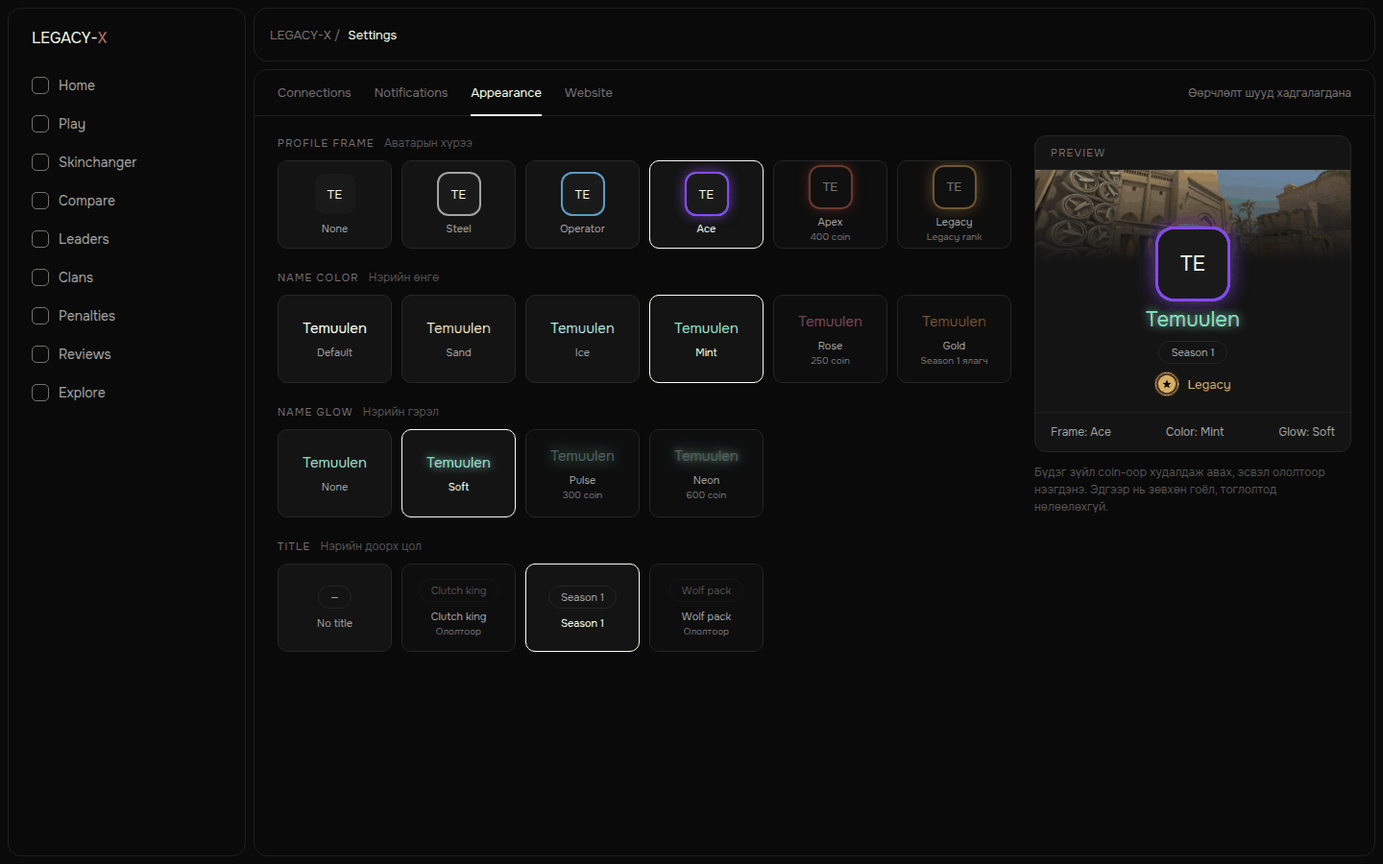
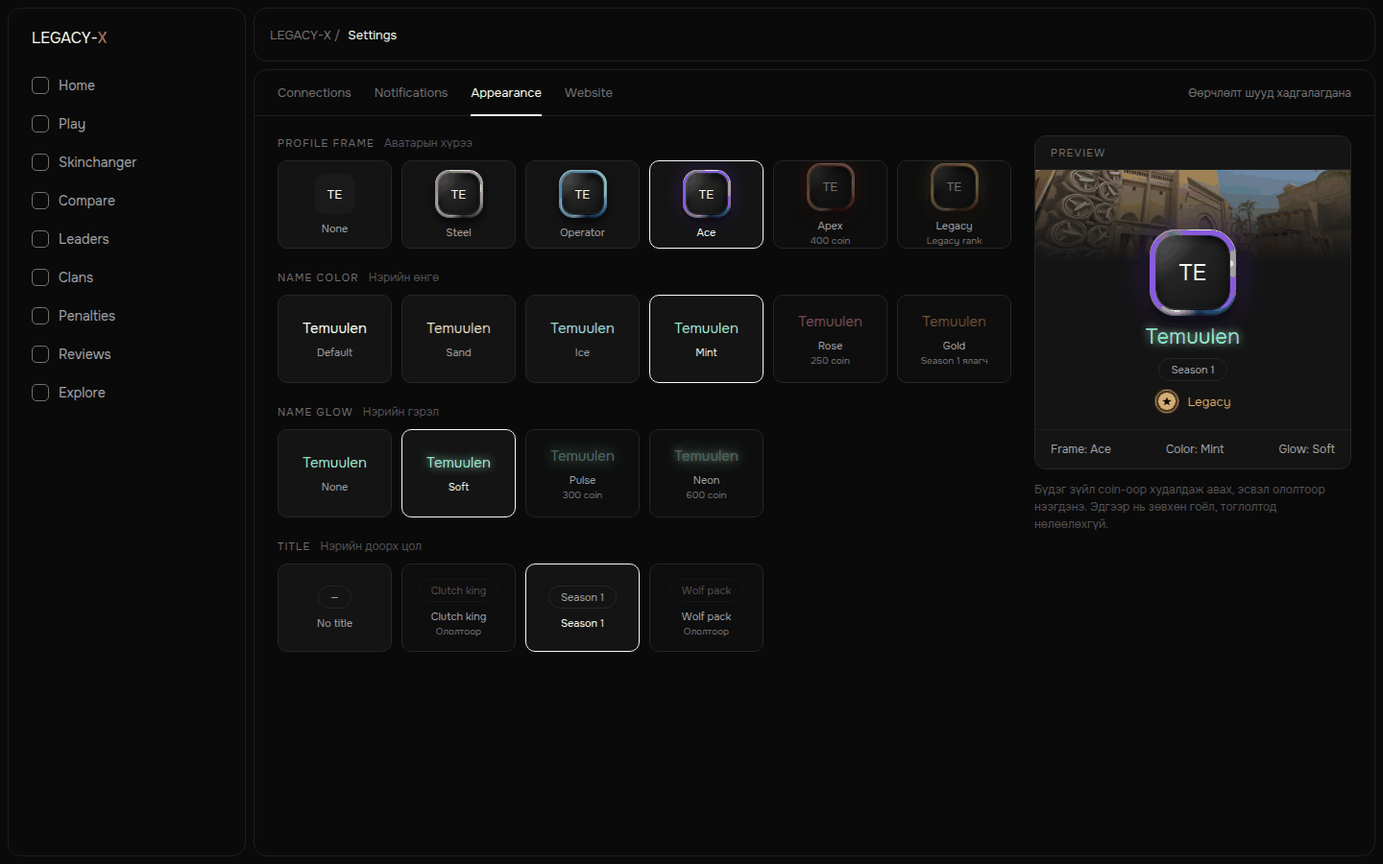
Add 3D profile frame mocks and use them in the Settings appearance mock
Claude-Session: https://claude.ai/code/session_01TcQZBqkxUw3iNcovWih4PN

diff --git a/docs/design/redesign/settings-appearance.html b/docs/design/redesign/settings-appearance.html
@@ -24,7 +24,7 @@ main{flex:1;min-width:0;padding:8px;display:flex;flex-direction:column;gap:8px}
 <div class="bar"><span class="t">Connections</span><span class="t">Notifications</span><span class="t on">Appearance</span><span class="t">Website</span><span style="margin-left:auto;font-size:12px">Өөрчлөлт шууд хадгалагдана</span></div>
 <div class="body" style="display:flex;gap:24px;padding:20px 24px">
  <div style="flex:1;min-width:0">
-  <section style="margin-bottom:22px"><div style="display:flex;align-items:baseline;gap:10px;margin-bottom:10px"><span style="font-size:11px;letter-spacing:1.2px;color:var(--dim);font-weight:600">PROFILE FRAME</span><span style="font-size:12px;color:var(--faint)">Аватарын хүрээ</span></div><div style="display:grid;grid-template-columns:repeat(6,1fr);gap:10px"><div style="position:relative;border:1px solid var(--line);border-radius:10px;background:var(--card);height:92px;overflow:hidden;display:flex;flex-direction:column;align-items:center;justify-content:center;gap:8px"><div style="width:42px;height:42px;border-radius:10px;background:var(--raised);display:flex;align-items:center;justify-content:center;font-size:13px;font-weight:700;">TE</div><span style="font-size:11px;color:var(--muted);font-weight:600;position:relative;z-index:1">None</span></div><div style="position:relative;border:1px solid var(--line);border-radius:10px;background:var(--card);height:92px;overflow:hidden;display:flex;flex-direction:column;align-items:center;justify-content:center;gap:8px"><div style="width:42px;height:42px;border-radius:10px;background:var(--raised);display:flex;align-items:center;justify-content:center;font-size:13px;font-weight:700;box-shadow:0 0 0 2px #a3a3a3">TE</div><span style="font-size:11px;color:var(--muted);font-weight:600;position:relative;z-index:1">Steel</span></div><div style="position:relative;border:1px solid var(--line);border-radius:10px;background:var(--card);height:92px;overflow:hidden;display:flex;flex-direction:column;align-items:center;justify-content:center;gap:8px"><div style="width:42px;height:42px;border-radius:10px;background:var(--raised);display:flex;align-items:center;justify-content:center;font-size:13px;font-weight:700;box-shadow:0 0 0 2px var(--operator)">TE</div><span style="font-size:11px;color:var(--muted);font-weight:600;position:relative;z-index:1">Operator</span></div><div style="position:relative;border:1px solid var(--text);border-radius:10px;background:var(--card);height:92px;overflow:hidden;display:flex;flex-direction:column;align-items:center;justify-content:center;gap:8px"><div style="width:42px;height:42px;border-radius:10px;background:var(--raised);display:flex;align-items:center;justify-content:center;font-size:13px;font-weight:700;box-shadow:0 0 0 2px var(--ace),0 0 14px var(--ace)">TE</div><span style="font-size:11px;color:var(--text);font-weight:600;position:relative;z-index:1">Ace</span></div><div style="position:relative;border:1px solid var(--line);border-radius:10px;background:var(--card);height:92px;overflow:hidden;display:flex;flex-direction:column;align-items:center;justify-content:center;gap:8px"><div style="width:42px;height:42px;border-radius:10px;background:var(--raised);display:flex;align-items:center;justify-content:center;font-size:13px;font-weight:700;box-shadow:0 0 0 2px var(--apex),0 0 14px var(--apex)">TE</div><span style="font-size:11px;color:var(--muted);font-weight:600;position:relative;z-index:1">Apex</span><span style="font-size:10px;color:var(--dim);margin-top:-6px;position:relative;z-index:1">400 coin</span><div style="position:absolute;inset:0;background:rgba(10,10,10,.55)"></div></div><div style="position:relative;border:1px solid var(--line);border-radius:10px;background:var(--card);height:92px;overflow:hidden;display:flex;flex-direction:column;align-items:center;justify-content:center;gap:8px"><div style="width:42px;height:42px;border-radius:10px;background:var(--raised);display:flex;align-items:center;justify-content:center;font-size:13px;font-weight:700;box-shadow:0 0 0 2px var(--legacy),0 0 18px var(--legacy)">TE</div><span style="font-size:11px;color:var(--muted);font-weight:600;position:relative;z-index:1">Legacy</span><span style="font-size:10px;color:var(--dim);margin-top:-6px;position:relative;z-index:1">Legacy rank</span><div style="position:absolute;inset:0;background:rgba(10,10,10,.55)"></div></div></div></section>
+  <section style="margin-bottom:22px"><div style="display:flex;align-items:baseline;gap:10px;margin-bottom:10px"><span style="font-size:11px;letter-spacing:1.2px;color:var(--dim);font-weight:600">PROFILE FRAME</span><span style="font-size:12px;color:var(--faint)">Аватарын хүрээ</span></div><div style="display:grid;grid-template-columns:repeat(6,1fr);gap:10px"><div style="position:relative;border:1px solid var(--line);border-radius:10px;background:var(--card);height:92px;overflow:hidden;display:flex;flex-direction:column;align-items:center;justify-content:center;gap:8px"><div style="width:42px;height:42px;border-radius:10px;background:var(--raised);display:flex;align-items:center;justify-content:center;font-size:13px;font-weight:700;">TE</div><span style="font-size:11px;color:var(--muted);font-weight:600;position:relative;z-index:1">None</span></div><div style="position:relative;border:1px solid var(--line);border-radius:10px;background:var(--card);height:92px;overflow:hidden;display:flex;flex-direction:column;align-items:center;justify-content:center;gap:8px"><div style="position:relative;width:50px;height:50px;border-radius:15px;padding:4px;background:conic-gradient(from 200deg,#f1f1f1,#9a9a9a 18%,#4a4a4a 36%,#9a9a9a 52%,#f1f1f1 66%,#9a9a9a 82%,#4a4a4a 92%,#f1f1f1);box-shadow:0 5px 9px rgba(0,0,0,.65),inset 0 1px 1px rgba(255,255,255,.6),inset 0 -2px 3px rgba(0,0,0,.55)"><div style="position:absolute;inset:0;border-radius:15px;background:linear-gradient(135deg,rgba(255,255,255,.38),rgba(255,255,255,0) 38%,rgba(0,0,0,.28));pointer-events:none"></div><div style="width:42px;height:42px;border-radius:11px;background:radial-gradient(circle at 30% 25%,#2a2a2a,#1a1a1a);display:flex;align-items:center;justify-content:center;font-weight:700;font-size:13px;box-shadow:inset 0 3px 8px rgba(0,0,0,.85),inset 0 -1px 2px rgba(255,255,255,.08),0 0 0 1px rgba(0,0,0,.7)">TE</div></div><span style="font-size:11px;color:var(--muted);font-weight:600;position:relative;z-index:1">Steel</span></div><div style="position:relative;border:1px solid var(--line);border-radius:10px;background:var(--card);height:92px;overflow:hidden;display:flex;flex-direction:column;align-items:center;justify-content:center;gap:8px"><div style="position:relative;width:50px;height:50px;border-radius:15px;padding:4px;background:conic-gradient(from 200deg,#bfe6ff,#4f93d6 18%,#1d3f6e 36%,#4f93d6 52%,#bfe6ff 66%,#4f93d6 82%,#1d3f6e 92%,#bfe6ff);box-shadow:0 5px 9px rgba(0,0,0,.65),inset 0 1px 1px rgba(255,255,255,.6),inset 0 -2px 3px rgba(0,0,0,.55)"><div style="position:absolute;inset:0;border-radius:15px;background:linear-gradient(135deg,rgba(255,255,255,.38),rgba(255,255,255,0) 38%,rgba(0,0,0,.28));pointer-events:none"></div><div style="width:42px;height:42px;border-radius:11px;background:radial-gradient(circle at 30% 25%,#2a2a2a,#1a1a1a);display:flex;align-items:center;justify-content:center;font-weight:700;font-size:13px;box-shadow:inset 0 3px 8px rgba(0,0,0,.85),inset 0 -1px 2px rgba(255,255,255,.08),0 0 0 1px rgba(0,0,0,.7)">TE</div></div><span style="font-size:11px;color:var(--muted);font-weight:600;position:relative;z-index:1">Operator</span></div><div style="position:relative;border:1px solid var(--text);border-radius:10px;background:var(--card);height:92px;overflow:hidden;display:flex;flex-direction:column;align-items:center;justify-content:center;gap:8px"><div style="position:relative;width:50px;height:50px;border-radius:15px;padding:4px;background:conic-gradient(from 200deg,#e3d0ff,#8847ff 18%,#37167a 36%,#8847ff 52%,#e3d0ff 66%,#8847ff 82%,#37167a 92%,#e3d0ff);box-shadow:0 5px 9px rgba(0,0,0,.65),inset 0 1px 1px rgba(255,255,255,.6),inset 0 -2px 3px rgba(0,0,0,.55),0 0 19px #8847ff55"><div style="position:absolute;inset:0;border-radius:15px;background:linear-gradient(135deg,rgba(255,255,255,.38),rgba(255,255,255,0) 38%,rgba(0,0,0,.28));pointer-events:none"></div><div style="width:42px;height:42px;border-radius:11px;background:radial-gradient(circle at 30% 25%,#2a2a2a,#1a1a1a);display:flex;align-items:center;justify-content:center;font-weight:700;font-size:13px;box-shadow:inset 0 3px 8px rgba(0,0,0,.85),inset 0 -1px 2px rgba(255,255,255,.08),0 0 0 1px rgba(0,0,0,.7)">TE</div></div><span style="font-size:11px;color:var(--text);font-weight:600;position:relative;z-index:1">Ace</span></div><div style="position:relative;border:1px solid var(--line);border-radius:10px;background:var(--card);height:92px;overflow:hidden;display:flex;flex-direction:column;align-items:center;justify-content:center;gap:8px"><div style="position:relative;width:50px;height:50px;border-radius:15px;padding:4px;background:conic-gradient(from 200deg,#ffc4c4,#e14b4b 18%,#6e1414 36%,#e14b4b 52%,#ffc4c4 66%,#e14b4b 82%,#6e1414 92%,#ffc4c4);box-shadow:0 5px 9px rgba(0,0,0,.65),inset 0 1px 1px rgba(255,255,255,.6),inset 0 -2px 3px rgba(0,0,0,.55),0 0 19px #eb4b4b66"><div style="position:absolute;inset:0;border-radius:15px;background:linear-gradient(135deg,rgba(255,255,255,.38),rgba(255,255,255,0) 38%,rgba(0,0,0,.28));pointer-events:none"></div><div style="width:42px;height:42px;border-radius:11px;background:radial-gradient(circle at 30% 25%,#2a2a2a,#1a1a1a);display:flex;align-items:center;justify-content:center;font-weight:700;font-size:13px;box-shadow:inset 0 3px 8px rgba(0,0,0,.85),inset 0 -1px 2px rgba(255,255,255,.08),0 0 0 1px rgba(0,0,0,.7)">TE</div></div><span style="font-size:11px;color:var(--muted);font-weight:600;position:relative;z-index:1">Apex</span><span style="font-size:10px;color:var(--dim);margin-top:-6px;position:relative;z-index:1">400 coin</span><div style="position:absolute;inset:0;background:rgba(10,10,10,.55)"></div></div><div style="position:relative;border:1px solid var(--line);border-radius:10px;background:var(--card);height:92px;overflow:hidden;display:flex;flex-direction:column;align-items:center;justify-content:center;gap:8px"><div style="position:relative;width:50px;height:50px;border-radius:15px;padding:4px;background:conic-gradient(from 200deg,#fff0b8,#e4ae39 18%,#7a5410 36%,#e4ae39 52%,#fff0b8 66%,#e4ae39 82%,#7a5410 92%,#fff0b8);box-shadow:0 5px 9px rgba(0,0,0,.65),inset 0 1px 1px rgba(255,255,255,.6),inset 0 -2px 3px rgba(0,0,0,.55),0 0 19px #e4ae3977"><div style="position:absolute;inset:0;border-radius:15px;background:linear-gradient(135deg,rgba(255,255,255,.38),rgba(255,255,255,0) 38%,rgba(0,0,0,.28));pointer-events:none"></div><div style="width:42px;height:42px;border-radius:11px;background:radial-gradient(circle at 30% 25%,#2a2a2a,#1a1a1a);display:flex;align-items:center;justify-content:center;font-weight:700;font-size:13px;box-shadow:inset 0 3px 8px rgba(0,0,0,.85),inset 0 -1px 2px rgba(255,255,255,.08),0 0 0 1px rgba(0,0,0,.7)">TE</div></div><span style="font-size:11px;color:var(--muted);font-weight:600;position:relative;z-index:1">Legacy</span><span style="font-size:10px;color:var(--dim);margin-top:-6px;position:relative;z-index:1">Legacy rank</span><div style="position:absolute;inset:0;background:rgba(10,10,10,.55)"></div></div></div></section>
   <section style="margin-bottom:22px"><div style="display:flex;align-items:baseline;gap:10px;margin-bottom:10px"><span style="font-size:11px;letter-spacing:1.2px;color:var(--dim);font-weight:600">NAME COLOR</span><span style="font-size:12px;color:var(--faint)">Нэрийн өнгө</span></div><div style="display:grid;grid-template-columns:repeat(6,1fr);gap:10px"><div style="position:relative;border:1px solid var(--line);border-radius:10px;background:var(--card);height:92px;overflow:hidden;display:flex;flex-direction:column;align-items:center;justify-content:center;gap:8px"><span style="font-size:15px;font-weight:700;color:#fafafa">Temuulen</span><span style="font-size:11px;color:var(--muted);font-weight:600;position:relative;z-index:1">Default</span></div><div style="position:relative;border:1px solid var(--line);border-radius:10px;background:var(--card);height:92px;overflow:hidden;display:flex;flex-direction:column;align-items:center;justify-content:center;gap:8px"><span style="font-size:15px;font-weight:700;color:#e8d9b0">Temuulen</span><span style="font-size:11px;color:var(--muted);font-weight:600;position:relative;z-index:1">Sand</span></div><div style="position:relative;border:1px solid var(--line);border-radius:10px;background:var(--card);height:92px;overflow:hidden;display:flex;flex-direction:column;align-items:center;justify-content:center;gap:8px"><span style="font-size:15px;font-weight:700;color:#9fd4ff">Temuulen</span><span style="font-size:11px;color:var(--muted);font-weight:600;position:relative;z-index:1">Ice</span></div><div style="position:relative;border:1px solid var(--text);border-radius:10px;background:var(--card);height:92px;overflow:hidden;display:flex;flex-direction:column;align-items:center;justify-content:center;gap:8px"><span style="font-size:15px;font-weight:700;color:#8ff0c0">Temuulen</span><span style="font-size:11px;color:var(--text);font-weight:600;position:relative;z-index:1">Mint</span></div><div style="position:relative;border:1px solid var(--line);border-radius:10px;background:var(--card);height:92px;overflow:hidden;display:flex;flex-direction:column;align-items:center;justify-content:center;gap:8px"><span style="font-size:15px;font-weight:700;color:#ff8aa8">Temuulen</span><span style="font-size:11px;color:var(--muted);font-weight:600;position:relative;z-index:1">Rose</span><span style="font-size:10px;color:var(--dim);margin-top:-6px;position:relative;z-index:1">250 coin</span><div style="position:absolute;inset:0;background:rgba(10,10,10,.55)"></div></div><div style="position:relative;border:1px solid var(--line);border-radius:10px;background:var(--card);height:92px;overflow:hidden;display:flex;flex-direction:column;align-items:center;justify-content:center;gap:8px"><span style="font-size:15px;font-weight:700;color:#e4ae39">Temuulen</span><span style="font-size:11px;color:var(--muted);font-weight:600;position:relative;z-index:1">Gold</span><span style="font-size:10px;color:var(--dim);margin-top:-6px;position:relative;z-index:1">Season 1 ялагч</span><div style="position:absolute;inset:0;background:rgba(10,10,10,.55)"></div></div></div></section>
   <section style="margin-bottom:22px"><div style="display:flex;align-items:baseline;gap:10px;margin-bottom:10px"><span style="font-size:11px;letter-spacing:1.2px;color:var(--dim);font-weight:600">NAME GLOW</span><span style="font-size:12px;color:var(--faint)">Нэрийн гэрэл</span></div><div style="display:grid;grid-template-columns:repeat(6,1fr);gap:10px"><div style="position:relative;border:1px solid var(--line);border-radius:10px;background:var(--card);height:92px;overflow:hidden;display:flex;flex-direction:column;align-items:center;justify-content:center;gap:8px"><span style="font-size:15px;font-weight:700;color:#8ff0c0;">Temuulen</span><span style="font-size:11px;color:var(--muted);font-weight:600;position:relative;z-index:1">None</span></div><div style="position:relative;border:1px solid var(--text);border-radius:10px;background:var(--card);height:92px;overflow:hidden;display:flex;flex-direction:column;align-items:center;justify-content:center;gap:8px"><span style="font-size:15px;font-weight:700;color:#8ff0c0;text-shadow:0 0 10px currentColor">Temuulen</span><span style="font-size:11px;color:var(--text);font-weight:600;position:relative;z-index:1">Soft</span></div><div style="position:relative;border:1px solid var(--line);border-radius:10px;background:var(--card);height:92px;overflow:hidden;display:flex;flex-direction:column;align-items:center;justify-content:center;gap:8px"><span style="font-size:15px;font-weight:700;color:#8ff0c0;text-shadow:0 0 14px currentColor,0 0 28px currentColor">Temuulen</span><span style="font-size:11px;color:var(--muted);font-weight:600;position:relative;z-index:1">Pulse</span><span style="font-size:10px;color:var(--dim);margin-top:-6px;position:relative;z-index:1">300 coin</span><div style="position:absolute;inset:0;background:rgba(10,10,10,.55)"></div></div><div style="position:relative;border:1px solid var(--line);border-radius:10px;background:var(--card);height:92px;overflow:hidden;display:flex;flex-direction:column;align-items:center;justify-content:center;gap:8px"><span style="font-size:15px;font-weight:700;color:#8ff0c0;text-shadow:0 0 6px #fff,0 0 18px currentColor,0 0 34px currentColor">Temuulen</span><span style="font-size:11px;color:var(--muted);font-weight:600;position:relative;z-index:1">Neon</span><span style="font-size:10px;color:var(--dim);margin-top:-6px;position:relative;z-index:1">600 coin</span><div style="position:absolute;inset:0;background:rgba(10,10,10,.55)"></div></div></div></section>
   <section style="margin-bottom:22px"><div style="display:flex;align-items:baseline;gap:10px;margin-bottom:10px"><span style="font-size:11px;letter-spacing:1.2px;color:var(--dim);font-weight:600">TITLE</span><span style="font-size:12px;color:var(--faint)">Нэрийн доорх цол</span></div><div style="display:grid;grid-template-columns:repeat(6,1fr);gap:10px"><div style="position:relative;border:1px solid var(--line);border-radius:10px;background:var(--card);height:92px;overflow:hidden;display:flex;flex-direction:column;align-items:center;justify-content:center;gap:8px"><span class="chip" style="height:24px;font-size:11px">—</span><span style="font-size:11px;color:var(--muted);font-weight:600;position:relative;z-index:1">No title</span></div><div style="position:relative;border:1px solid var(--line);border-radius:10px;background:var(--card);height:92px;overflow:hidden;display:flex;flex-direction:column;align-items:center;justify-content:center;gap:8px"><span class="chip" style="height:24px;font-size:11px">Clutch king</span><span style="font-size:11px;color:var(--muted);font-weight:600;position:relative;z-index:1">Clutch king</span><span style="font-size:10px;color:var(--dim);margin-top:-6px;position:relative;z-index:1">Ололтоор</span><div style="position:absolute;inset:0;background:rgba(10,10,10,.55)"></div></div><div style="position:relative;border:1px solid var(--text);border-radius:10px;background:var(--card);height:92px;overflow:hidden;display:flex;flex-direction:column;align-items:center;justify-content:center;gap:8px"><span class="chip" style="height:24px;font-size:11px">Season 1</span><span style="font-size:11px;color:var(--text);font-weight:600;position:relative;z-index:1">Season 1</span></div><div style="position:relative;border:1px solid var(--line);border-radius:10px;background:var(--card);height:92px;overflow:hidden;display:flex;flex-direction:column;align-items:center;justify-content:center;gap:8px"><span class="chip" style="height:24px;font-size:11px">Wolf pack</span><span style="font-size:11px;color:var(--muted);font-weight:600;position:relative;z-index:1">Wolf pack</span><span style="font-size:10px;color:var(--dim);margin-top:-6px;position:relative;z-index:1">Ололтоор</span><div style="position:absolute;inset:0;background:rgba(10,10,10,.55)"></div></div></div></section>
@@ -34,7 +34,7 @@ main{flex:1;min-width:0;padding:8px;display:flex;flex-direction:column;gap:8px}
    <div style="padding:10px 16px;font-size:11px;letter-spacing:1.2px;color:var(--dim);font-weight:600;border-bottom:1px solid var(--line-soft)">PREVIEW</div>
    <div style="position:relative;height:96px;background:url(../../../src/assets/maps/de_mirage.webp) center/cover"><div style="position:absolute;inset:0;background:linear-gradient(0deg,#141414,rgba(20,20,20,.35))"></div></div>
    <div style="margin-top:-34px;padding:0 16px 16px;position:relative;display:flex;flex-direction:column;align-items:center;text-align:center;gap:8px">
-    <div style="width:72px;height:72px;border-radius:16px;background:var(--raised);display:flex;align-items:center;justify-content:center;font-size:22px;font-weight:700;box-shadow:0 0 0 3px var(--ace),0 0 22px var(--ace)">TE</div>
+    <div style="position:relative;width:90px;height:90px;border-radius:27px;padding:7px;background:conic-gradient(from 200deg,#e3d0ff,#8847ff 18%,#37167a 36%,#8847ff 52%,#e3d0ff 66%,#8847ff 82%,#37167a 92%,#e3d0ff);box-shadow:0 9px 17px rgba(0,0,0,.65),inset 0 1px 1px rgba(255,255,255,.6),inset 0 -2px 3px rgba(0,0,0,.55),0 0 34px #8847ff55"><div style="position:absolute;inset:0;border-radius:27px;background:linear-gradient(135deg,rgba(255,255,255,.38),rgba(255,255,255,0) 38%,rgba(0,0,0,.28));pointer-events:none"></div><div style="width:76px;height:76px;border-radius:20px;background:radial-gradient(circle at 30% 25%,#2a2a2a,#1a1a1a);display:flex;align-items:center;justify-content:center;font-weight:700;font-size:24px;box-shadow:inset 0 3px 8px rgba(0,0,0,.85),inset 0 -1px 2px rgba(255,255,255,.08),0 0 0 1px rgba(0,0,0,.7)">TE</div></div>
     <div style="font-size:22px;font-weight:700;color:#8ff0c0;text-shadow:0 0 10px currentColor">Temuulen</div>
     <span class="chip" style="height:24px;font-size:11px">Season 1</span>
     <div style="display:flex;align-items:center;gap:8px;color:var(--legacy);font-weight:600;font-size:13px"><img src="../ranks/rank-18.svg" width="26" height="26">Legacy</div>

diff --git a/docs/design/redesign/frames-3d.html b/docs/design/redesign/frames-3d.html
@@ -1,0 +1,28 @@
+<!doctype html><html><head><meta charset="utf-8"><link href="https://fonts.googleapis.com/css2?family=Onest:wght@400;600;700&display=swap" rel="stylesheet"/>
+<style>body{margin:0;background:#0a0a0a;color:#fafafa;font-family:'Onest',system-ui,sans-serif}</style></head><body>
+<div style="width:1440px;height:560px;padding:48px 72px;box-sizing:border-box">
+<div style="font-size:11px;letter-spacing:1.2px;color:#737373;font-weight:600">PROFILE FRAMES · 3D</div>
+<div style="display:flex;justify-content:space-between;margin-top:44px"><div style="display:flex;flex-direction:column;align-items:center;gap:16px"><div><div style="position:relative;width:138px;height:138px;border-radius:40px;padding:14px;background:conic-gradient(from 200deg,#f6f6f6,#a0a0a0 16%,#444 34%,#a0a0a0 50%,#f6f6f6 64%,#a0a0a0 80%,#444 92%,#f6f6f6);box-shadow:0 15px 29px rgba(0,0,0,.7),0 0 55px #ffffff22,inset 0 2px 2px rgba(255,255,255,.65),inset 0 -3px 4px rgba(0,0,0,.6)">
+<div style="position:absolute;inset:0;border-radius:40px;background:linear-gradient(135deg,rgba(255,255,255,.42),rgba(255,255,255,0) 40%,rgba(0,0,0,.3))"></div>
+<div style="position:absolute;inset:8px;border-radius:32px;box-shadow:inset 0 2px 3px rgba(0,0,0,.55),0 1px 0 rgba(255,255,255,.35)"></div>
+<div style="position:relative;width:110px;height:110px;border-radius:26px;background:radial-gradient(circle at 30% 25%,#333,#141414);display:flex;align-items:center;justify-content:center;font-weight:700;font-size:35px;box-shadow:inset 0 4px 10px rgba(0,0,0,.9),inset 0 -1px 2px rgba(255,255,255,.1),0 0 0 1px rgba(0,0,0,.8)">TE</div><span style="position:absolute;left:3px;top:3px;width:10px;height:10px;border-radius:50%;background:radial-gradient(circle at 35% 30%,#f6f6f6,#444);box-shadow:0 1px 2px rgba(0,0,0,.7),inset 0 -1px 1px rgba(0,0,0,.5)"></span><span style="position:absolute;right:3px;top:3px;width:10px;height:10px;border-radius:50%;background:radial-gradient(circle at 35% 30%,#f6f6f6,#444);box-shadow:0 1px 2px rgba(0,0,0,.7),inset 0 -1px 1px rgba(0,0,0,.5)"></span><span style="position:absolute;left:3px;bottom:3px;width:10px;height:10px;border-radius:50%;background:radial-gradient(circle at 35% 30%,#f6f6f6,#444);box-shadow:0 1px 2px rgba(0,0,0,.7),inset 0 -1px 1px rgba(0,0,0,.5)"></span><span style="position:absolute;right:3px;bottom:3px;width:10px;height:10px;border-radius:50%;background:radial-gradient(circle at 35% 30%,#f6f6f6,#444);box-shadow:0 1px 2px rgba(0,0,0,.7),inset 0 -1px 1px rgba(0,0,0,.5)"></span></div></div><div style="font-weight:600">Steel</div></div><div style="display:flex;flex-direction:column;align-items:center;gap:16px"><div><div style="position:relative;width:138px;height:138px;border-radius:40px;padding:14px;background:conic-gradient(from 200deg,#c9ecff,#4f93d6 16%,#17355f 34%,#4f93d6 50%,#c9ecff 64%,#4f93d6 80%,#17355f 92%,#c9ecff);box-shadow:0 15px 29px rgba(0,0,0,.7),0 0 55px #5e98d955,inset 0 2px 2px rgba(255,255,255,.65),inset 0 -3px 4px rgba(0,0,0,.6)">
+<div style="position:absolute;inset:0;border-radius:40px;background:linear-gradient(135deg,rgba(255,255,255,.42),rgba(255,255,255,0) 40%,rgba(0,0,0,.3))"></div>
+<div style="position:absolute;inset:8px;border-radius:32px;box-shadow:inset 0 2px 3px rgba(0,0,0,.55),0 1px 0 rgba(255,255,255,.35)"></div>
+<div style="position:relative;width:110px;height:110px;border-radius:26px;background:radial-gradient(circle at 30% 25%,#333,#141414);display:flex;align-items:center;justify-content:center;font-weight:700;font-size:35px;box-shadow:inset 0 4px 10px rgba(0,0,0,.9),inset 0 -1px 2px rgba(255,255,255,.1),0 0 0 1px rgba(0,0,0,.8)">TE</div><span style="position:absolute;left:3px;top:3px;width:10px;height:10px;border-radius:50%;background:radial-gradient(circle at 35% 30%,#c9ecff,#17355f);box-shadow:0 1px 2px rgba(0,0,0,.7),inset 0 -1px 1px rgba(0,0,0,.5)"></span><span style="position:absolute;right:3px;top:3px;width:10px;height:10px;border-radius:50%;background:radial-gradient(circle at 35% 30%,#c9ecff,#17355f);box-shadow:0 1px 2px rgba(0,0,0,.7),inset 0 -1px 1px rgba(0,0,0,.5)"></span><span style="position:absolute;left:3px;bottom:3px;width:10px;height:10px;border-radius:50%;background:radial-gradient(circle at 35% 30%,#c9ecff,#17355f);box-shadow:0 1px 2px rgba(0,0,0,.7),inset 0 -1px 1px rgba(0,0,0,.5)"></span><span style="position:absolute;right:3px;bottom:3px;width:10px;height:10px;border-radius:50%;background:radial-gradient(circle at 35% 30%,#c9ecff,#17355f);box-shadow:0 1px 2px rgba(0,0,0,.7),inset 0 -1px 1px rgba(0,0,0,.5)"></span></div></div><div style="font-weight:600">Operator</div></div><div style="display:flex;flex-direction:column;align-items:center;gap:16px"><div><div style="position:relative;width:138px;height:138px;border-radius:40px;padding:14px;background:conic-gradient(from 200deg,#eadbff,#8847ff 16%,#2f1068 34%,#8847ff 50%,#eadbff 64%,#8847ff 80%,#2f1068 92%,#eadbff);box-shadow:0 15px 29px rgba(0,0,0,.7),0 0 55px #8847ff66,inset 0 2px 2px rgba(255,255,255,.65),inset 0 -3px 4px rgba(0,0,0,.6)">
+<div style="position:absolute;inset:0;border-radius:40px;background:linear-gradient(135deg,rgba(255,255,255,.42),rgba(255,255,255,0) 40%,rgba(0,0,0,.3))"></div>
+<div style="position:absolute;inset:8px;border-radius:32px;box-shadow:inset 0 2px 3px rgba(0,0,0,.55),0 1px 0 rgba(255,255,255,.35)"></div>
+<div style="position:relative;width:110px;height:110px;border-radius:26px;background:radial-gradient(circle at 30% 25%,#333,#141414);display:flex;align-items:center;justify-content:center;font-weight:700;font-size:35px;box-shadow:inset 0 4px 10px rgba(0,0,0,.9),inset 0 -1px 2px rgba(255,255,255,.1),0 0 0 1px rgba(0,0,0,.8)">TE</div><span style="position:absolute;left:3px;top:3px;width:10px;height:10px;border-radius:50%;background:radial-gradient(circle at 35% 30%,#eadbff,#2f1068);box-shadow:0 1px 2px rgba(0,0,0,.7),inset 0 -1px 1px rgba(0,0,0,.5)"></span><span style="position:absolute;right:3px;top:3px;width:10px;height:10px;border-radius:50%;background:radial-gradient(circle at 35% 30%,#eadbff,#2f1068);box-shadow:0 1px 2px rgba(0,0,0,.7),inset 0 -1px 1px rgba(0,0,0,.5)"></span><span style="position:absolute;left:3px;bottom:3px;width:10px;height:10px;border-radius:50%;background:radial-gradient(circle at 35% 30%,#eadbff,#2f1068);box-shadow:0 1px 2px rgba(0,0,0,.7),inset 0 -1px 1px rgba(0,0,0,.5)"></span><span style="position:absolute;right:3px;bottom:3px;width:10px;height:10px;border-radius:50%;background:radial-gradient(circle at 35% 30%,#eadbff,#2f1068);box-shadow:0 1px 2px rgba(0,0,0,.7),inset 0 -1px 1px rgba(0,0,0,.5)"></span></div></div><div style="font-weight:600">Ace</div></div><div style="display:flex;flex-direction:column;align-items:center;gap:16px"><div><div style="position:relative;width:138px;height:138px;border-radius:40px;padding:14px;background:conic-gradient(from 200deg,#ffcfcf,#e14b4b 16%,#5e0f0f 34%,#e14b4b 50%,#ffcfcf 64%,#e14b4b 80%,#5e0f0f 92%,#ffcfcf);box-shadow:0 15px 29px rgba(0,0,0,.7),0 0 55px #eb4b4b77,inset 0 2px 2px rgba(255,255,255,.65),inset 0 -3px 4px rgba(0,0,0,.6)">
+<div style="position:absolute;inset:0;border-radius:40px;background:linear-gradient(135deg,rgba(255,255,255,.42),rgba(255,255,255,0) 40%,rgba(0,0,0,.3))"></div>
+<div style="position:absolute;inset:8px;border-radius:32px;box-shadow:inset 0 2px 3px rgba(0,0,0,.55),0 1px 0 rgba(255,255,255,.35)"></div>
+<div style="position:relative;width:110px;height:110px;border-radius:26px;background:radial-gradient(circle at 30% 25%,#333,#141414);display:flex;align-items:center;justify-content:center;font-weight:700;font-size:35px;box-shadow:inset 0 4px 10px rgba(0,0,0,.9),inset 0 -1px 2px rgba(255,255,255,.1),0 0 0 1px rgba(0,0,0,.8)">TE</div><span style="position:absolute;left:3px;top:3px;width:10px;height:10px;border-radius:50%;background:radial-gradient(circle at 35% 30%,#ffcfcf,#5e0f0f);box-shadow:0 1px 2px rgba(0,0,0,.7),inset 0 -1px 1px rgba(0,0,0,.5)"></span><span style="position:absolute;right:3px;top:3px;width:10px;height:10px;border-radius:50%;background:radial-gradient(circle at 35% 30%,#ffcfcf,#5e0f0f);box-shadow:0 1px 2px rgba(0,0,0,.7),inset 0 -1px 1px rgba(0,0,0,.5)"></span><span style="position:absolute;left:3px;bottom:3px;width:10px;height:10px;border-radius:50%;background:radial-gradient(circle at 35% 30%,#ffcfcf,#5e0f0f);box-shadow:0 1px 2px rgba(0,0,0,.7),inset 0 -1px 1px rgba(0,0,0,.5)"></span><span style="position:absolute;right:3px;bottom:3px;width:10px;height:10px;border-radius:50%;background:radial-gradient(circle at 35% 30%,#ffcfcf,#5e0f0f);box-shadow:0 1px 2px rgba(0,0,0,.7),inset 0 -1px 1px rgba(0,0,0,.5)"></span></div></div><div style="font-weight:600">Apex</div></div><div style="display:flex;flex-direction:column;align-items:center;gap:16px"><div><div style="position:relative;width:138px;height:138px;border-radius:40px;padding:14px;background:conic-gradient(from 200deg,#fff3c4,#e4ae39 16%,#6e4a0c 34%,#e4ae39 50%,#fff3c4 64%,#e4ae39 80%,#6e4a0c 92%,#fff3c4);box-shadow:0 15px 29px rgba(0,0,0,.7),0 0 55px #e4ae3988,inset 0 2px 2px rgba(255,255,255,.65),inset 0 -3px 4px rgba(0,0,0,.6)">
+<div style="position:absolute;inset:0;border-radius:40px;background:linear-gradient(135deg,rgba(255,255,255,.42),rgba(255,255,255,0) 40%,rgba(0,0,0,.3))"></div>
+<div style="position:absolute;inset:8px;border-radius:32px;box-shadow:inset 0 2px 3px rgba(0,0,0,.55),0 1px 0 rgba(255,255,255,.35)"></div>
+<div style="position:relative;width:110px;height:110px;border-radius:26px;background:radial-gradient(circle at 30% 25%,#333,#141414);display:flex;align-items:center;justify-content:center;font-weight:700;font-size:35px;box-shadow:inset 0 4px 10px rgba(0,0,0,.9),inset 0 -1px 2px rgba(255,255,255,.1),0 0 0 1px rgba(0,0,0,.8)">TE</div><span style="position:absolute;left:3px;top:3px;width:10px;height:10px;border-radius:50%;background:radial-gradient(circle at 35% 30%,#fff3c4,#6e4a0c);box-shadow:0 1px 2px rgba(0,0,0,.7),inset 0 -1px 1px rgba(0,0,0,.5)"></span><span style="position:absolute;right:3px;top:3px;width:10px;height:10px;border-radius:50%;background:radial-gradient(circle at 35% 30%,#fff3c4,#6e4a0c);box-shadow:0 1px 2px rgba(0,0,0,.7),inset 0 -1px 1px rgba(0,0,0,.5)"></span><span style="position:absolute;left:3px;bottom:3px;width:10px;height:10px;border-radius:50%;background:radial-gradient(circle at 35% 30%,#fff3c4,#6e4a0c);box-shadow:0 1px 2px rgba(0,0,0,.7),inset 0 -1px 1px rgba(0,0,0,.5)"></span><span style="position:absolute;right:3px;bottom:3px;width:10px;height:10px;border-radius:50%;background:radial-gradient(circle at 35% 30%,#fff3c4,#6e4a0c);box-shadow:0 1px 2px rgba(0,0,0,.7),inset 0 -1px 1px rgba(0,0,0,.5)"></span></div></div><div style="font-weight:600">Legacy</div></div></div>
+<div style="margin-top:46px;display:flex;gap:28px;align-items:center;border:1px solid #262626;border-radius:14px;padding:22px 28px;background:#141414">
+ <div style="position:relative;width:80px;height:80px;border-radius:23px;padding:8px;background:conic-gradient(from 200deg,#fff3c4,#e4ae39 16%,#6e4a0c 34%,#e4ae39 50%,#fff3c4 64%,#e4ae39 80%,#6e4a0c 92%,#fff3c4);box-shadow:0 9px 17px rgba(0,0,0,.7),0 0 32px #e4ae3988,inset 0 2px 2px rgba(255,255,255,.65),inset 0 -3px 4px rgba(0,0,0,.6)">
+<div style="position:absolute;inset:0;border-radius:23px;background:linear-gradient(135deg,rgba(255,255,255,.42),rgba(255,255,255,0) 40%,rgba(0,0,0,.3))"></div>
+<div style="position:absolute;inset:4px;border-radius:19px;box-shadow:inset 0 2px 3px rgba(0,0,0,.55),0 1px 0 rgba(255,255,255,.35)"></div>
+<div style="position:relative;width:64px;height:64px;border-radius:15px;background:radial-gradient(circle at 30% 25%,#333,#141414);display:flex;align-items:center;justify-content:center;font-weight:700;font-size:20px;box-shadow:inset 0 4px 10px rgba(0,0,0,.9),inset 0 -1px 2px rgba(255,255,255,.1),0 0 0 1px rgba(0,0,0,.8)">TE</div><span style="position:absolute;left:2px;top:2px;width:6px;height:6px;border-radius:50%;background:radial-gradient(circle at 35% 30%,#fff3c4,#6e4a0c);box-shadow:0 1px 2px rgba(0,0,0,.7),inset 0 -1px 1px rgba(0,0,0,.5)"></span><span style="position:absolute;right:2px;top:2px;width:6px;height:6px;border-radius:50%;background:radial-gradient(circle at 35% 30%,#fff3c4,#6e4a0c);box-shadow:0 1px 2px rgba(0,0,0,.7),inset 0 -1px 1px rgba(0,0,0,.5)"></span><span style="position:absolute;left:2px;bottom:2px;width:6px;height:6px;border-radius:50%;background:radial-gradient(circle at 35% 30%,#fff3c4,#6e4a0c);box-shadow:0 1px 2px rgba(0,0,0,.7),inset 0 -1px 1px rgba(0,0,0,.5)"></span><span style="position:absolute;right:2px;bottom:2px;width:6px;height:6px;border-radius:50%;background:radial-gradient(circle at 35% 30%,#fff3c4,#6e4a0c);box-shadow:0 1px 2px rgba(0,0,0,.7),inset 0 -1px 1px rgba(0,0,0,.5)"></span></div>
+ <div><div style="font-size:22px;font-weight:700;color:#e4ae39;text-shadow:0 0 12px #e4ae39">Temuulen</div><div style="font-size:13px;color:#a3a3a3;margin-top:4px">Season 1 · Legacy · 4,200 EXP</div></div>
+ <div style="margin-left:auto;font-size:12px;color:#737373;max-width:360px;line-height:1.5">Хүрээ нь CSS-ээр (зураггүй, хөнгөн) зурагдана. Гэрэл, сүүдэр, тусгал нь rank-ийн өнгөөр. Hover хийхэд бага зэрэг хазайж гэрэл гулсана.</div>
+</div></div></body></html>
